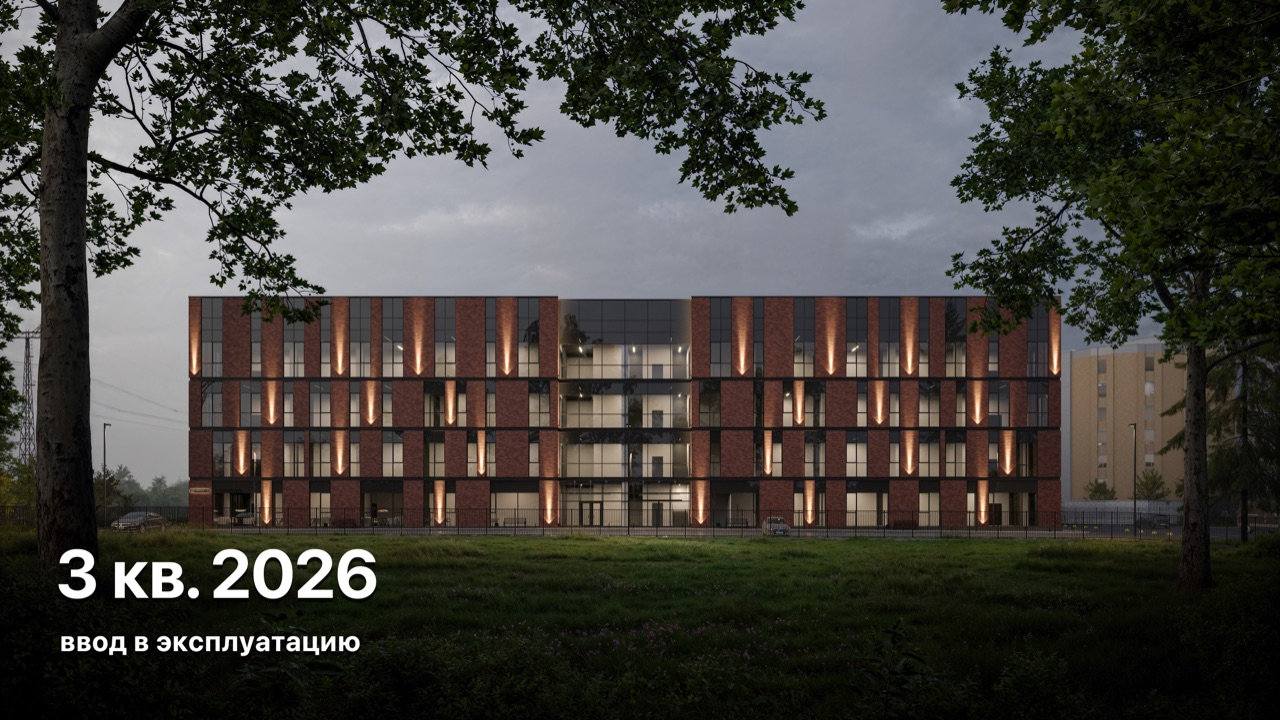
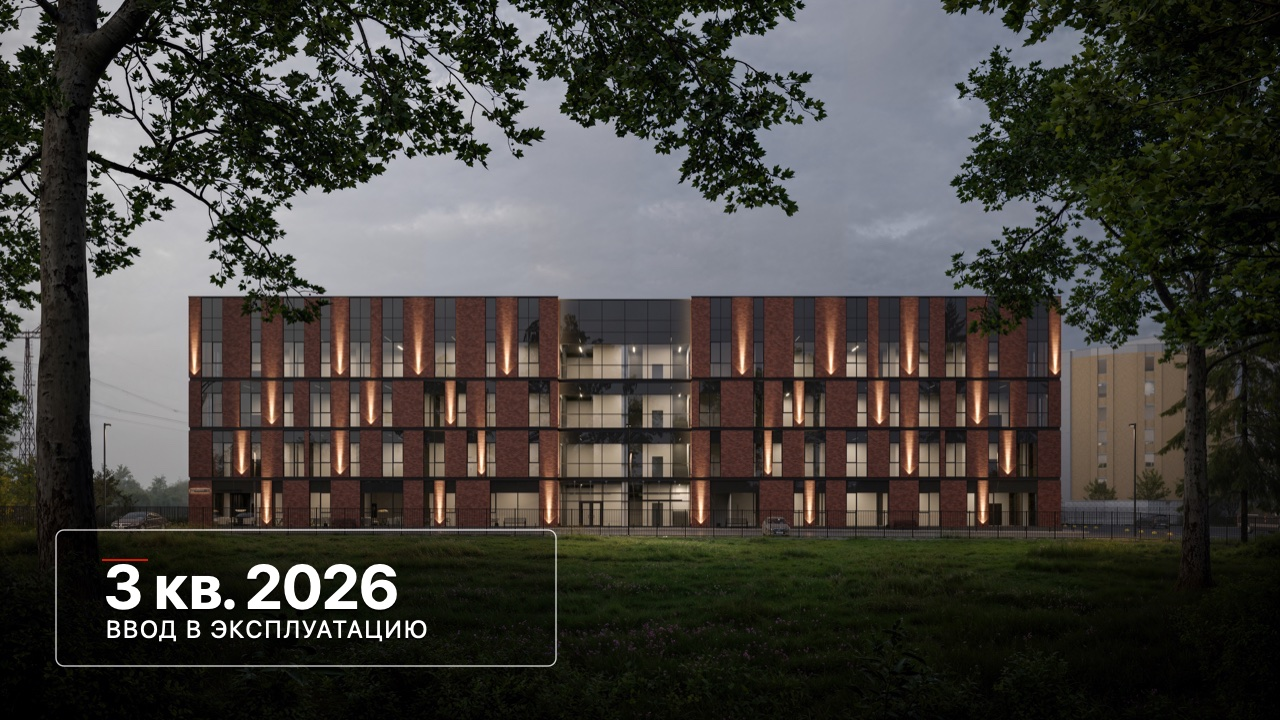
Match hero design reference

Changed region(s): [[0.0312, 0.7333, 0.4375, 0.9167]]

diff --git a/email-cdn-template.html b/email-cdn-template.html
@@ -19,7 +19,7 @@
   <style>
     :root { color-scheme: light only; supported-color-schemes: light; }
     html, body { margin:0 !important; padding:0 !important; height:100% !important; width:100% !important; }
-    body { background:#f4f4f4; -webkit-text-size-adjust:100%; -ms-text-size-adjust:100%; }
+    body { background:#ffffff; -webkit-text-size-adjust:100%; -ms-text-size-adjust:100%; }
     table, td { mso-table-lspace:0pt; mso-table-rspace:0pt; }
     table { border-spacing:0 !important; border-collapse:collapse !important; table-layout:fixed !important; margin:0 auto !important; }
     img { -ms-interpolation-mode:bicubic; display:block; border:0; outline:none; text-decoration:none; }
@@ -93,17 +93,17 @@
     }
   </style>
 </head>
-<body width="100%" style="margin:0; padding:0; background-color:#f4f4f4;">
+<body width="100%" style="margin:0; padding:0; background-color:#ffffff;">
   <div class="preheader">Площади в аренду в ABCENTRUM: 11 776 м², класс A+, ввод в эксплуатацию — 3 кв. 2026.</div>
-  <div lang="ru" style="background-color:#f4f4f4;">
-    <center style="width:100%; background-color:#f4f4f4;">
-      <table role="presentation" cellpadding="0" cellspacing="0" border="0" width="100%" style="width:100%; background-color:#f4f4f4;">
+  <div lang="ru" style="background-color:#ffffff;">
+    <center style="width:100%; background-color:#ffffff;">
+      <table role="presentation" cellpadding="0" cellspacing="0" border="0" width="100%" style="width:100%; background-color:#ffffff;">
         <tr>
-          <td align="center" style="padding:28px 12px;">
-            <table role="presentation" cellpadding="0" cellspacing="0" border="0" width="640" class="container" style="width:640px; max-width:640px; background-color:#ffffff; border-radius:18px; overflow:hidden;">
+          <td align="center" style="padding:0;">
+            <table role="presentation" cellpadding="0" cellspacing="0" border="0" width="640" class="container" style="width:640px; max-width:640px; background-color:#ffffff; border-radius:0; overflow:hidden;">
               <!-- Header -->
               <tr>
-                <td class="mobile-px" style="padding:24px 34px 20px 34px; border-bottom:1px solid #e9e9e9; background-color:#ffffff;">
+                <td class="mobile-px" style="padding:26px 38px 24px 38px; background-color:#ffffff;">
                   <table role="presentation" cellpadding="0" cellspacing="0" border="0" width="100%" style="width:100%;">
                     <tr>
                       <td align="left" valign="middle" style="width:260px;">
@@ -111,7 +111,7 @@
                           <img src="{{ASSET_BASE_URL}}/logo-abcentrum.png" width="190" alt="ABCENTRUM" style="width:190px; max-width:190px; height:auto; display:block;">
                         </a>
                       </td>
-                      <td align="right" valign="middle" class="hide-mobile" style="font-family:Inter, Arial, Helvetica, sans-serif; font-size:12px; line-height:18px; letter-spacing:.08em; text-transform:uppercase; color:#8a8a8a;">
+                      <td align="right" valign="middle" class="hide-mobile" style="font-family:Inter, Arial, Helvetica, sans-serif; font-size:12px; line-height:18px; letter-spacing:.16em; text-transform:uppercase; color:#6f6f6f;">
                         коммерческая недвижимость
                       </td>
                     </tr>
@@ -130,23 +130,23 @@
 
               <!-- Hero content -->
               <tr>
-                <td class="mobile-px mobile-py" style="padding:34px 38px 34px 38px; background-color:#111111;">
+                <td class="mobile-px mobile-py" style="padding:42px 42px 44px 42px; background-color:#101112;">
                   <table role="presentation" cellpadding="0" cellspacing="0" border="0" width="100%" style="width:100%;">
                     <tr>
                       <td>
-                        <h1 class="hero-title" style="margin:0; font-family:Inter, Arial, Helvetica, sans-serif; font-size:42px; line-height:48px; font-weight:700; letter-spacing:-.02em; color:#ffffff;">Аренда в промтехнопарке<br>в Митино</h1>
+                        <h1 class="hero-title" style="margin:0; font-family:Inter, Arial, Helvetica, sans-serif; font-size:44px; line-height:52px; font-weight:800; letter-spacing:-.02em; color:#ffffff;">Аренда в промтехнопарке<br>в Митино</h1>
                       </td>
                     </tr>
                     <tr><td height="16" style="height:16px; line-height:16px; font-size:0;">&nbsp;</td></tr>
                     <tr>
-                      <td style="font-family:Inter, Arial, Helvetica, sans-serif; font-size:17px; line-height:25px; font-weight:400; color:#e5e5e5;">
+                      <td style="font-family:Inter, Arial, Helvetica, sans-serif; font-size:17px; line-height:27px; font-weight:400; color:#d8d8d8;">
                         Площади в аренду в премиальном light industrial-объекте ABCENTRUM для производства, офиса, showroom, клиентского сервиса и инфраструктуры в одном месте.
                       </td>
                     </tr>
                     <tr><td height="20" style="height:20px; line-height:20px; font-size:0;">&nbsp;</td></tr>
                     <tr>
                       <td>
-                        <table role="presentation" cellpadding="0" cellspacing="0" border="0" width="100%" style="width:100%; border-top:1px solid #343434; border-bottom:1px solid #343434;">
+                        <table role="presentation" cellpadding="0" cellspacing="0" border="0" width="100%" style="width:100%; border-top:1px solid #4a4a4a; border-bottom:1px solid #4a4a4a;">
                           <tr>
                             <td style="padding:16px 0; font-family:Inter, Arial, Helvetica, sans-serif; font-size:15px; line-height:23px; font-weight:700; color:#ffffff;">
                               11 776 м² · класс A+ · 1,5 МВт<br>
@@ -158,7 +158,7 @@
                     </tr>
                     <tr><td height="22" style="height:22px; line-height:22px; font-size:0;">&nbsp;</td></tr>
                     <tr>
-                      <td style="font-family:Inter, Arial, Helvetica, sans-serif; font-size:15px; line-height:23px; font-weight:400; color:#d7d7d7;">
+                      <td style="font-family:Inter, Arial, Helvetica, sans-serif; font-size:15px; line-height:24px; font-weight:400; color:#d7d7d7;">
                         Один адрес для производства, офиса, showroom, клиентской функции и сервиса.
                       </td>
                     </tr>
@@ -167,17 +167,17 @@
                       <td class="mobile-button-row">
                         <table role="presentation" cellpadding="0" cellspacing="0" border="0" class="btn-wrap mobile-cta-btn" style="display:inline-table; margin:0;">
                           <tr>
-                            <td align="center" bgcolor="#b40000" style="border-radius:4px;">
-                              <!--[if mso]><v:roundrect xmlns:v="urn:schemas-microsoft-com:vml" href="https://drive.google.com/file/d/1gtEZxno8Kxpb9ijNX1eIBs6ceV6k83f7/view?usp=sharing" style="height:48px;v-text-anchor:middle;width:210px;" arcsize="6%" stroke="f" fillcolor="#b40000"><w:anchorlock/><center style="color:#ffffff;font-family:Inter, Arial, Helvetica, sans-serif;font-size:15px;font-weight:bold;">Скачать презентацию</center></v:roundrect><![endif]-->
-                              <a class="btn-link" href="https://drive.google.com/file/d/1gtEZxno8Kxpb9ijNX1eIBs6ceV6k83f7/view?usp=sharing" target="_blank" style="mso-hide:all; display:inline-block; padding:15px 22px; min-width:166px; font-family:Inter, Arial, Helvetica, sans-serif; font-size:15px; line-height:18px; font-weight:700; color:#ffffff; background-color:#b40000; border-radius:4px; text-align:center;">Скачать презентацию</a>
+                            <td align="center" bgcolor="#c40000" style="border-radius:6px;">
+                              <!--[if mso]><v:roundrect xmlns:v="urn:schemas-microsoft-com:vml" href="https://drive.google.com/file/d/1gtEZxno8Kxpb9ijNX1eIBs6ceV6k83f7/view?usp=sharing" style="height:54px;v-text-anchor:middle;width:268px;" arcsize="6%" stroke="f" fillcolor="#c40000"><w:anchorlock/><center style="color:#ffffff;font-family:Inter, Arial, Helvetica, sans-serif;font-size:16px;font-weight:bold;">Скачать презентацию</center></v:roundrect><![endif]-->
+                              <a class="btn-link" href="https://drive.google.com/file/d/1gtEZxno8Kxpb9ijNX1eIBs6ceV6k83f7/view?usp=sharing" target="_blank" style="mso-hide:all; display:inline-block; padding:17px 24px; min-width:220px; font-family:Inter, Arial, Helvetica, sans-serif; font-size:16px; line-height:20px; font-weight:700; color:#ffffff; background-color:#c40000; border-radius:6px; text-align:center;">Скачать презентацию</a>
                             </td>
                           </tr>
                         </table>
                         <table role="presentation" cellpadding="0" cellspacing="0" border="0" class="btn-wrap mobile-cta-btn mobile-btn-second" style="display:inline-table; margin:0 0 0 10px;">
                           <tr>
-                            <td align="center" bgcolor="#111111" style="border-radius:4px;">
-                              <!--[if mso]><v:roundrect xmlns:v="urn:schemas-microsoft-com:vml" href="https://abcport.ru/" style="height:48px;v-text-anchor:middle;width:184px;" arcsize="6%" strokecolor="#ffffff" fillcolor="#111111"><w:anchorlock/><center style="color:#ffffff;font-family:Inter, Arial, Helvetica, sans-serif;font-size:15px;font-weight:bold;">Смотреть объект</center></v:roundrect><![endif]-->
-                              <a class="btn-link" href="https://abcport.ru/" target="_blank" style="mso-hide:all; display:inline-block; padding:15px 22px; min-width:140px; font-family:Inter, Arial, Helvetica, sans-serif; font-size:15px; line-height:18px; font-weight:700; color:#ffffff; background-color:#111111; border:1px solid #ffffff; border-radius:4px; text-align:center;">Смотреть объект</a>
+                            <td align="center" bgcolor="#101112" style="border-radius:6px;">
+                              <!--[if mso]><v:roundrect xmlns:v="urn:schemas-microsoft-com:vml" href="https://abcport.ru/" style="height:54px;v-text-anchor:middle;width:248px;" arcsize="6%" strokecolor="#ffffff" fillcolor="#101112"><w:anchorlock/><center style="color:#ffffff;font-family:Inter, Arial, Helvetica, sans-serif;font-size:16px;font-weight:bold;">Смотреть объект</center></v:roundrect><![endif]-->
+                              <a class="btn-link" href="https://abcport.ru/" target="_blank" style="mso-hide:all; display:inline-block; padding:17px 24px; min-width:200px; font-family:Inter, Arial, Helvetica, sans-serif; font-size:16px; line-height:20px; font-weight:700; color:#ffffff; background-color:#101112; border:1px solid #ffffff; border-radius:6px; text-align:center;">Смотреть объект</a>
                             </td>
                           </tr>
                         </table>

diff --git a/email.html b/email.html
@@ -19,7 +19,7 @@
   <style>
     :root { color-scheme: light only; supported-color-schemes: light; }
     html, body { margin:0 !important; padding:0 !important; height:100% !important; width:100% !important; }
-    body { background:#f4f4f4; -webkit-text-size-adjust:100%; -ms-text-size-adjust:100%; }
+    body { background:#ffffff; -webkit-text-size-adjust:100%; -ms-text-size-adjust:100%; }
     table, td { mso-table-lspace:0pt; mso-table-rspace:0pt; }
     table { border-spacing:0 !important; border-collapse:collapse !important; table-layout:fixed !important; margin:0 auto !important; }
     img { -ms-interpolation-mode:bicubic; display:block; border:0; outline:none; text-decoration:none; }
@@ -93,17 +93,17 @@
     }
   </style>
 </head>
-<body width="100%" style="margin:0; padding:0; background-color:#f4f4f4;">
+<body width="100%" style="margin:0; padding:0; background-color:#ffffff;">
   <div class="preheader">Площади в аренду в ABCENTRUM: 11 776 м², класс A+, ввод в эксплуатацию — 3 кв. 2026.</div>
-  <div lang="ru" style="background-color:#f4f4f4;">
-    <center style="width:100%; background-color:#f4f4f4;">
-      <table role="presentation" cellpadding="0" cellspacing="0" border="0" width="100%" style="width:100%; background-color:#f4f4f4;">
+  <div lang="ru" style="background-color:#ffffff;">
+    <center style="width:100%; background-color:#ffffff;">
+      <table role="presentation" cellpadding="0" cellspacing="0" border="0" width="100%" style="width:100%; background-color:#ffffff;">
         <tr>
-          <td align="center" style="padding:28px 12px;">
-            <table role="presentation" cellpadding="0" cellspacing="0" border="0" width="640" class="container" style="width:640px; max-width:640px; background-color:#ffffff; border-radius:18px; overflow:hidden;">
+          <td align="center" style="padding:0;">
+            <table role="presentation" cellpadding="0" cellspacing="0" border="0" width="640" class="container" style="width:640px; max-width:640px; background-color:#ffffff; border-radius:0; overflow:hidden;">
               <!-- Header -->
               <tr>
-                <td class="mobile-px" style="padding:24px 34px 20px 34px; border-bottom:1px solid #e9e9e9; background-color:#ffffff;">
+                <td class="mobile-px" style="padding:26px 38px 24px 38px; background-color:#ffffff;">
                   <table role="presentation" cellpadding="0" cellspacing="0" border="0" width="100%" style="width:100%;">
                     <tr>
                       <td align="left" valign="middle" style="width:260px;">
@@ -111,7 +111,7 @@
                           <img src="assets/logo-abcentrum.png" width="190" alt="ABCENTRUM" style="width:190px; max-width:190px; height:auto; display:block;">
                         </a>
                       </td>
-                      <td align="right" valign="middle" class="hide-mobile" style="font-family:Inter, Arial, Helvetica, sans-serif; font-size:12px; line-height:18px; letter-spacing:.08em; text-transform:uppercase; color:#8a8a8a;">
+                      <td align="right" valign="middle" class="hide-mobile" style="font-family:Inter, Arial, Helvetica, sans-serif; font-size:12px; line-height:18px; letter-spacing:.16em; text-transform:uppercase; color:#6f6f6f;">
                         коммерческая недвижимость
                       </td>
                     </tr>
@@ -130,23 +130,23 @@
 
               <!-- Hero content -->
               <tr>
-                <td class="mobile-px mobile-py" style="padding:34px 38px 34px 38px; background-color:#111111;">
+                <td class="mobile-px mobile-py" style="padding:42px 42px 44px 42px; background-color:#101112;">
                   <table role="presentation" cellpadding="0" cellspacing="0" border="0" width="100%" style="width:100%;">
                     <tr>
                       <td>
-                        <h1 class="hero-title" style="margin:0; font-family:Inter, Arial, Helvetica, sans-serif; font-size:42px; line-height:48px; font-weight:700; letter-spacing:-.02em; color:#ffffff;">Аренда в промтехнопарке<br>в Митино</h1>
+                        <h1 class="hero-title" style="margin:0; font-family:Inter, Arial, Helvetica, sans-serif; font-size:44px; line-height:52px; font-weight:800; letter-spacing:-.02em; color:#ffffff;">Аренда в промтехнопарке<br>в Митино</h1>
                       </td>
                     </tr>
                     <tr><td height="16" style="height:16px; line-height:16px; font-size:0;">&nbsp;</td></tr>
                     <tr>
-                      <td style="font-family:Inter, Arial, Helvetica, sans-serif; font-size:17px; line-height:25px; font-weight:400; color:#e5e5e5;">
+                      <td style="font-family:Inter, Arial, Helvetica, sans-serif; font-size:17px; line-height:27px; font-weight:400; color:#d8d8d8;">
                         Площади в аренду в премиальном light industrial-объекте ABCENTRUM для производства, офиса, showroom, клиентского сервиса и инфраструктуры в одном месте.
                       </td>
                     </tr>
                     <tr><td height="20" style="height:20px; line-height:20px; font-size:0;">&nbsp;</td></tr>
                     <tr>
                       <td>
-                        <table role="presentation" cellpadding="0" cellspacing="0" border="0" width="100%" style="width:100%; border-top:1px solid #343434; border-bottom:1px solid #343434;">
+                        <table role="presentation" cellpadding="0" cellspacing="0" border="0" width="100%" style="width:100%; border-top:1px solid #4a4a4a; border-bottom:1px solid #4a4a4a;">
                           <tr>
                             <td style="padding:16px 0; font-family:Inter, Arial, Helvetica, sans-serif; font-size:15px; line-height:23px; font-weight:700; color:#ffffff;">
                               11 776 м² · класс A+ · 1,5 МВт<br>
@@ -158,7 +158,7 @@
                     </tr>
                     <tr><td height="22" style="height:22px; line-height:22px; font-size:0;">&nbsp;</td></tr>
                     <tr>
-                      <td style="font-family:Inter, Arial, Helvetica, sans-serif; font-size:15px; line-height:23px; font-weight:400; color:#d7d7d7;">
+                      <td style="font-family:Inter, Arial, Helvetica, sans-serif; font-size:15px; line-height:24px; font-weight:400; color:#d7d7d7;">
                         Один адрес для производства, офиса, showroom, клиентской функции и сервиса.
                       </td>
                     </tr>
@@ -167,17 +167,17 @@
                       <td class="mobile-button-row">
                         <table role="presentation" cellpadding="0" cellspacing="0" border="0" class="btn-wrap mobile-cta-btn" style="display:inline-table; margin:0;">
                           <tr>
-                            <td align="center" bgcolor="#b40000" style="border-radius:4px;">
-                              <!--[if mso]><v:roundrect xmlns:v="urn:schemas-microsoft-com:vml" href="https://drive.google.com/file/d/1gtEZxno8Kxpb9ijNX1eIBs6ceV6k83f7/view?usp=sharing" style="height:48px;v-text-anchor:middle;width:210px;" arcsize="6%" stroke="f" fillcolor="#b40000"><w:anchorlock/><center style="color:#ffffff;font-family:Inter, Arial, Helvetica, sans-serif;font-size:15px;font-weight:bold;">Скачать презентацию</center></v:roundrect><![endif]-->
-                              <a class="btn-link" href="https://drive.google.com/file/d/1gtEZxno8Kxpb9ijNX1eIBs6ceV6k83f7/view?usp=sharing" target="_blank" style="mso-hide:all; display:inline-block; padding:15px 22px; min-width:166px; font-family:Inter, Arial, Helvetica, sans-serif; font-size:15px; line-height:18px; font-weight:700; color:#ffffff; background-color:#b40000; border-radius:4px; text-align:center;">Скачать презентацию</a>
+                            <td align="center" bgcolor="#c40000" style="border-radius:6px;">
+                              <!--[if mso]><v:roundrect xmlns:v="urn:schemas-microsoft-com:vml" href="https://drive.google.com/file/d/1gtEZxno8Kxpb9ijNX1eIBs6ceV6k83f7/view?usp=sharing" style="height:54px;v-text-anchor:middle;width:268px;" arcsize="6%" stroke="f" fillcolor="#c40000"><w:anchorlock/><center style="color:#ffffff;font-family:Inter, Arial, Helvetica, sans-serif;font-size:16px;font-weight:bold;">Скачать презентацию</center></v:roundrect><![endif]-->
+                              <a class="btn-link" href="https://drive.google.com/file/d/1gtEZxno8Kxpb9ijNX1eIBs6ceV6k83f7/view?usp=sharing" target="_blank" style="mso-hide:all; display:inline-block; padding:17px 24px; min-width:220px; font-family:Inter, Arial, Helvetica, sans-serif; font-size:16px; line-height:20px; font-weight:700; color:#ffffff; background-color:#c40000; border-radius:6px; text-align:center;">Скачать презентацию</a>
                             </td>
                           </tr>
                         </table>
                         <table role="presentation" cellpadding="0" cellspacing="0" border="0" class="btn-wrap mobile-cta-btn mobile-btn-second" style="display:inline-table; margin:0 0 0 10px;">
                           <tr>
-                            <td align="center" bgcolor="#111111" style="border-radius:4px;">
-                              <!--[if mso]><v:roundrect xmlns:v="urn:schemas-microsoft-com:vml" href="https://abcport.ru/" style="height:48px;v-text-anchor:middle;width:184px;" arcsize="6%" strokecolor="#ffffff" fillcolor="#111111"><w:anchorlock/><center style="color:#ffffff;font-family:Inter, Arial, Helvetica, sans-serif;font-size:15px;font-weight:bold;">Смотреть объект</center></v:roundrect><![endif]-->
-                              <a class="btn-link" href="https://abcport.ru/" target="_blank" style="mso-hide:all; display:inline-block; padding:15px 22px; min-width:140px; font-family:Inter, Arial, Helvetica, sans-serif; font-size:15px; line-height:18px; font-weight:700; color:#ffffff; background-color:#111111; border:1px solid #ffffff; border-radius:4px; text-align:center;">Смотреть объект</a>
+                            <td align="center" bgcolor="#101112" style="border-radius:6px;">
+                              <!--[if mso]><v:roundrect xmlns:v="urn:schemas-microsoft-com:vml" href="https://abcport.ru/" style="height:54px;v-text-anchor:middle;width:248px;" arcsize="6%" strokecolor="#ffffff" fillcolor="#101112"><w:anchorlock/><center style="color:#ffffff;font-family:Inter, Arial, Helvetica, sans-serif;font-size:16px;font-weight:bold;">Смотреть объект</center></v:roundrect><![endif]-->
+                              <a class="btn-link" href="https://abcport.ru/" target="_blank" style="mso-hide:all; display:inline-block; padding:17px 24px; min-width:200px; font-family:Inter, Arial, Helvetica, sans-serif; font-size:16px; line-height:20px; font-weight:700; color:#ffffff; background-color:#101112; border:1px solid #ffffff; border-radius:6px; text-align:center;">Смотреть объект</a>
                             </td>
                           </tr>
                         </table>

diff --git a/index.html b/index.html
@@ -19,7 +19,7 @@
   <style>
     :root { color-scheme: light only; supported-color-schemes: light; }
     html, body { margin:0 !important; padding:0 !important; height:100% !important; width:100% !important; }
-    body { background:#f4f4f4; -webkit-text-size-adjust:100%; -ms-text-size-adjust:100%; }
+    body { background:#ffffff; -webkit-text-size-adjust:100%; -ms-text-size-adjust:100%; }
     table, td { mso-table-lspace:0pt; mso-table-rspace:0pt; }
     table { border-spacing:0 !important; border-collapse:collapse !important; table-layout:fixed !important; margin:0 auto !important; }
     img { -ms-interpolation-mode:bicubic; display:block; border:0; outline:none; text-decoration:none; }
@@ -93,17 +93,17 @@
     }
   </style>
 </head>
-<body width="100%" style="margin:0; padding:0; background-color:#f4f4f4;">
+<body width="100%" style="margin:0; padding:0; background-color:#ffffff;">
   <div class="preheader">Площади в аренду в ABCENTRUM: 11 776 м², класс A+, ввод в эксплуатацию — 3 кв. 2026.</div>
-  <div lang="ru" style="background-color:#f4f4f4;">
-    <center style="width:100%; background-color:#f4f4f4;">
-      <table role="presentation" cellpadding="0" cellspacing="0" border="0" width="100%" style="width:100%; background-color:#f4f4f4;">
+  <div lang="ru" style="background-color:#ffffff;">
+    <center style="width:100%; background-color:#ffffff;">
+      <table role="presentation" cellpadding="0" cellspacing="0" border="0" width="100%" style="width:100%; background-color:#ffffff;">
         <tr>
-          <td align="center" style="padding:28px 12px;">
-            <table role="presentation" cellpadding="0" cellspacing="0" border="0" width="640" class="container" style="width:640px; max-width:640px; background-color:#ffffff; border-radius:18px; overflow:hidden;">
+          <td align="center" style="padding:0;">
+            <table role="presentation" cellpadding="0" cellspacing="0" border="0" width="640" class="container" style="width:640px; max-width:640px; background-color:#ffffff; border-radius:0; overflow:hidden;">
               <!-- Header -->
               <tr>
-                <td class="mobile-px" style="padding:24px 34px 20px 34px; border-bottom:1px solid #e9e9e9; background-color:#ffffff;">
+                <td class="mobile-px" style="padding:26px 38px 24px 38px; background-color:#ffffff;">
                   <table role="presentation" cellpadding="0" cellspacing="0" border="0" width="100%" style="width:100%;">
                     <tr>
                       <td align="left" valign="middle" style="width:260px;">
@@ -111,7 +111,7 @@
                           <img src="assets/logo-abcentrum.png" width="190" alt="ABCENTRUM" style="width:190px; max-width:190px; height:auto; display:block;">
                         </a>
                       </td>
-                      <td align="right" valign="middle" class="hide-mobile" style="font-family:Inter, Arial, Helvetica, sans-serif; font-size:12px; line-height:18px; letter-spacing:.08em; text-transform:uppercase; color:#8a8a8a;">
+                      <td align="right" valign="middle" class="hide-mobile" style="font-family:Inter, Arial, Helvetica, sans-serif; font-size:12px; line-height:18px; letter-spacing:.16em; text-transform:uppercase; color:#6f6f6f;">
                         коммерческая недвижимость
                       </td>
                     </tr>
@@ -130,23 +130,23 @@
 
               <!-- Hero content -->
               <tr>
-                <td class="mobile-px mobile-py" style="padding:34px 38px 34px 38px; background-color:#111111;">
+                <td class="mobile-px mobile-py" style="padding:42px 42px 44px 42px; background-color:#101112;">
                   <table role="presentation" cellpadding="0" cellspacing="0" border="0" width="100%" style="width:100%;">
                     <tr>
                       <td>
-                        <h1 class="hero-title" style="margin:0; font-family:Inter, Arial, Helvetica, sans-serif; font-size:42px; line-height:48px; font-weight:700; letter-spacing:-.02em; color:#ffffff;">Аренда в промтехнопарке<br>в Митино</h1>
+                        <h1 class="hero-title" style="margin:0; font-family:Inter, Arial, Helvetica, sans-serif; font-size:44px; line-height:52px; font-weight:800; letter-spacing:-.02em; color:#ffffff;">Аренда в промтехнопарке<br>в Митино</h1>
                       </td>
                     </tr>
                     <tr><td height="16" style="height:16px; line-height:16px; font-size:0;">&nbsp;</td></tr>
                     <tr>
-                      <td style="font-family:Inter, Arial, Helvetica, sans-serif; font-size:17px; line-height:25px; font-weight:400; color:#e5e5e5;">
+                      <td style="font-family:Inter, Arial, Helvetica, sans-serif; font-size:17px; line-height:27px; font-weight:400; color:#d8d8d8;">
                         Площади в аренду в премиальном light industrial-объекте ABCENTRUM для производства, офиса, showroom, клиентского сервиса и инфраструктуры в одном месте.
                       </td>
                     </tr>
                     <tr><td height="20" style="height:20px; line-height:20px; font-size:0;">&nbsp;</td></tr>
                     <tr>
                       <td>
-                        <table role="presentation" cellpadding="0" cellspacing="0" border="0" width="100%" style="width:100%; border-top:1px solid #343434; border-bottom:1px solid #343434;">
+                        <table role="presentation" cellpadding="0" cellspacing="0" border="0" width="100%" style="width:100%; border-top:1px solid #4a4a4a; border-bottom:1px solid #4a4a4a;">
                           <tr>
                             <td style="padding:16px 0; font-family:Inter, Arial, Helvetica, sans-serif; font-size:15px; line-height:23px; font-weight:700; color:#ffffff;">
                               11 776 м² · класс A+ · 1,5 МВт<br>
@@ -158,7 +158,7 @@
                     </tr>
                     <tr><td height="22" style="height:22px; line-height:22px; font-size:0;">&nbsp;</td></tr>
                     <tr>
-                      <td style="font-family:Inter, Arial, Helvetica, sans-serif; font-size:15px; line-height:23px; font-weight:400; color:#d7d7d7;">
+                      <td style="font-family:Inter, Arial, Helvetica, sans-serif; font-size:15px; line-height:24px; font-weight:400; color:#d7d7d7;">
                         Один адрес для производства, офиса, showroom, клиентской функции и сервиса.
                       </td>
                     </tr>
@@ -167,17 +167,17 @@
                       <td class="mobile-button-row">
                         <table role="presentation" cellpadding="0" cellspacing="0" border="0" class="btn-wrap mobile-cta-btn" style="display:inline-table; margin:0;">
                           <tr>
-                            <td align="center" bgcolor="#b40000" style="border-radius:4px;">
-                              <!--[if mso]><v:roundrect xmlns:v="urn:schemas-microsoft-com:vml" href="https://drive.google.com/file/d/1gtEZxno8Kxpb9ijNX1eIBs6ceV6k83f7/view?usp=sharing" style="height:48px;v-text-anchor:middle;width:210px;" arcsize="6%" stroke="f" fillcolor="#b40000"><w:anchorlock/><center style="color:#ffffff;font-family:Inter, Arial, Helvetica, sans-serif;font-size:15px;font-weight:bold;">Скачать презентацию</center></v:roundrect><![endif]-->
-                              <a class="btn-link" href="https://drive.google.com/file/d/1gtEZxno8Kxpb9ijNX1eIBs6ceV6k83f7/view?usp=sharing" target="_blank" style="mso-hide:all; display:inline-block; padding:15px 22px; min-width:166px; font-family:Inter, Arial, Helvetica, sans-serif; font-size:15px; line-height:18px; font-weight:700; color:#ffffff; background-color:#b40000; border-radius:4px; text-align:center;">Скачать презентацию</a>
+                            <td align="center" bgcolor="#c40000" style="border-radius:6px;">
+                              <!--[if mso]><v:roundrect xmlns:v="urn:schemas-microsoft-com:vml" href="https://drive.google.com/file/d/1gtEZxno8Kxpb9ijNX1eIBs6ceV6k83f7/view?usp=sharing" style="height:54px;v-text-anchor:middle;width:268px;" arcsize="6%" stroke="f" fillcolor="#c40000"><w:anchorlock/><center style="color:#ffffff;font-family:Inter, Arial, Helvetica, sans-serif;font-size:16px;font-weight:bold;">Скачать презентацию</center></v:roundrect><![endif]-->
+                              <a class="btn-link" href="https://drive.google.com/file/d/1gtEZxno8Kxpb9ijNX1eIBs6ceV6k83f7/view?usp=sharing" target="_blank" style="mso-hide:all; display:inline-block; padding:17px 24px; min-width:220px; font-family:Inter, Arial, Helvetica, sans-serif; font-size:16px; line-height:20px; font-weight:700; color:#ffffff; background-color:#c40000; border-radius:6px; text-align:center;">Скачать презентацию</a>
                             </td>
                           </tr>
                         </table>
                         <table role="presentation" cellpadding="0" cellspacing="0" border="0" class="btn-wrap mobile-cta-btn mobile-btn-second" style="display:inline-table; margin:0 0 0 10px;">
                           <tr>
-                            <td align="center" bgcolor="#111111" style="border-radius:4px;">
-                              <!--[if mso]><v:roundrect xmlns:v="urn:schemas-microsoft-com:vml" href="https://abcport.ru/" style="height:48px;v-text-anchor:middle;width:184px;" arcsize="6%" strokecolor="#ffffff" fillcolor="#111111"><w:anchorlock/><center style="color:#ffffff;font-family:Inter, Arial, Helvetica, sans-serif;font-size:15px;font-weight:bold;">Смотреть объект</center></v:roundrect><![endif]-->
-                              <a class="btn-link" href="https://abcport.ru/" target="_blank" style="mso-hide:all; display:inline-block; padding:15px 22px; min-width:140px; font-family:Inter, Arial, Helvetica, sans-serif; font-size:15px; line-height:18px; font-weight:700; color:#ffffff; background-color:#111111; border:1px solid #ffffff; border-radius:4px; text-align:center;">Смотреть объект</a>
+                            <td align="center" bgcolor="#101112" style="border-radius:6px;">
+                              <!--[if mso]><v:roundrect xmlns:v="urn:schemas-microsoft-com:vml" href="https://abcport.ru/" style="height:54px;v-text-anchor:middle;width:248px;" arcsize="6%" strokecolor="#ffffff" fillcolor="#101112"><w:anchorlock/><center style="color:#ffffff;font-family:Inter, Arial, Helvetica, sans-serif;font-size:16px;font-weight:bold;">Смотреть объект</center></v:roundrect><![endif]-->
+                              <a class="btn-link" href="https://abcport.ru/" target="_blank" style="mso-hide:all; display:inline-block; padding:17px 24px; min-width:200px; font-family:Inter, Arial, Helvetica, sans-serif; font-size:16px; line-height:20px; font-weight:700; color:#ffffff; background-color:#101112; border:1px solid #ffffff; border-radius:6px; text-align:center;">Смотреть объект</a>
                             </td>
                           </tr>
                         </table>